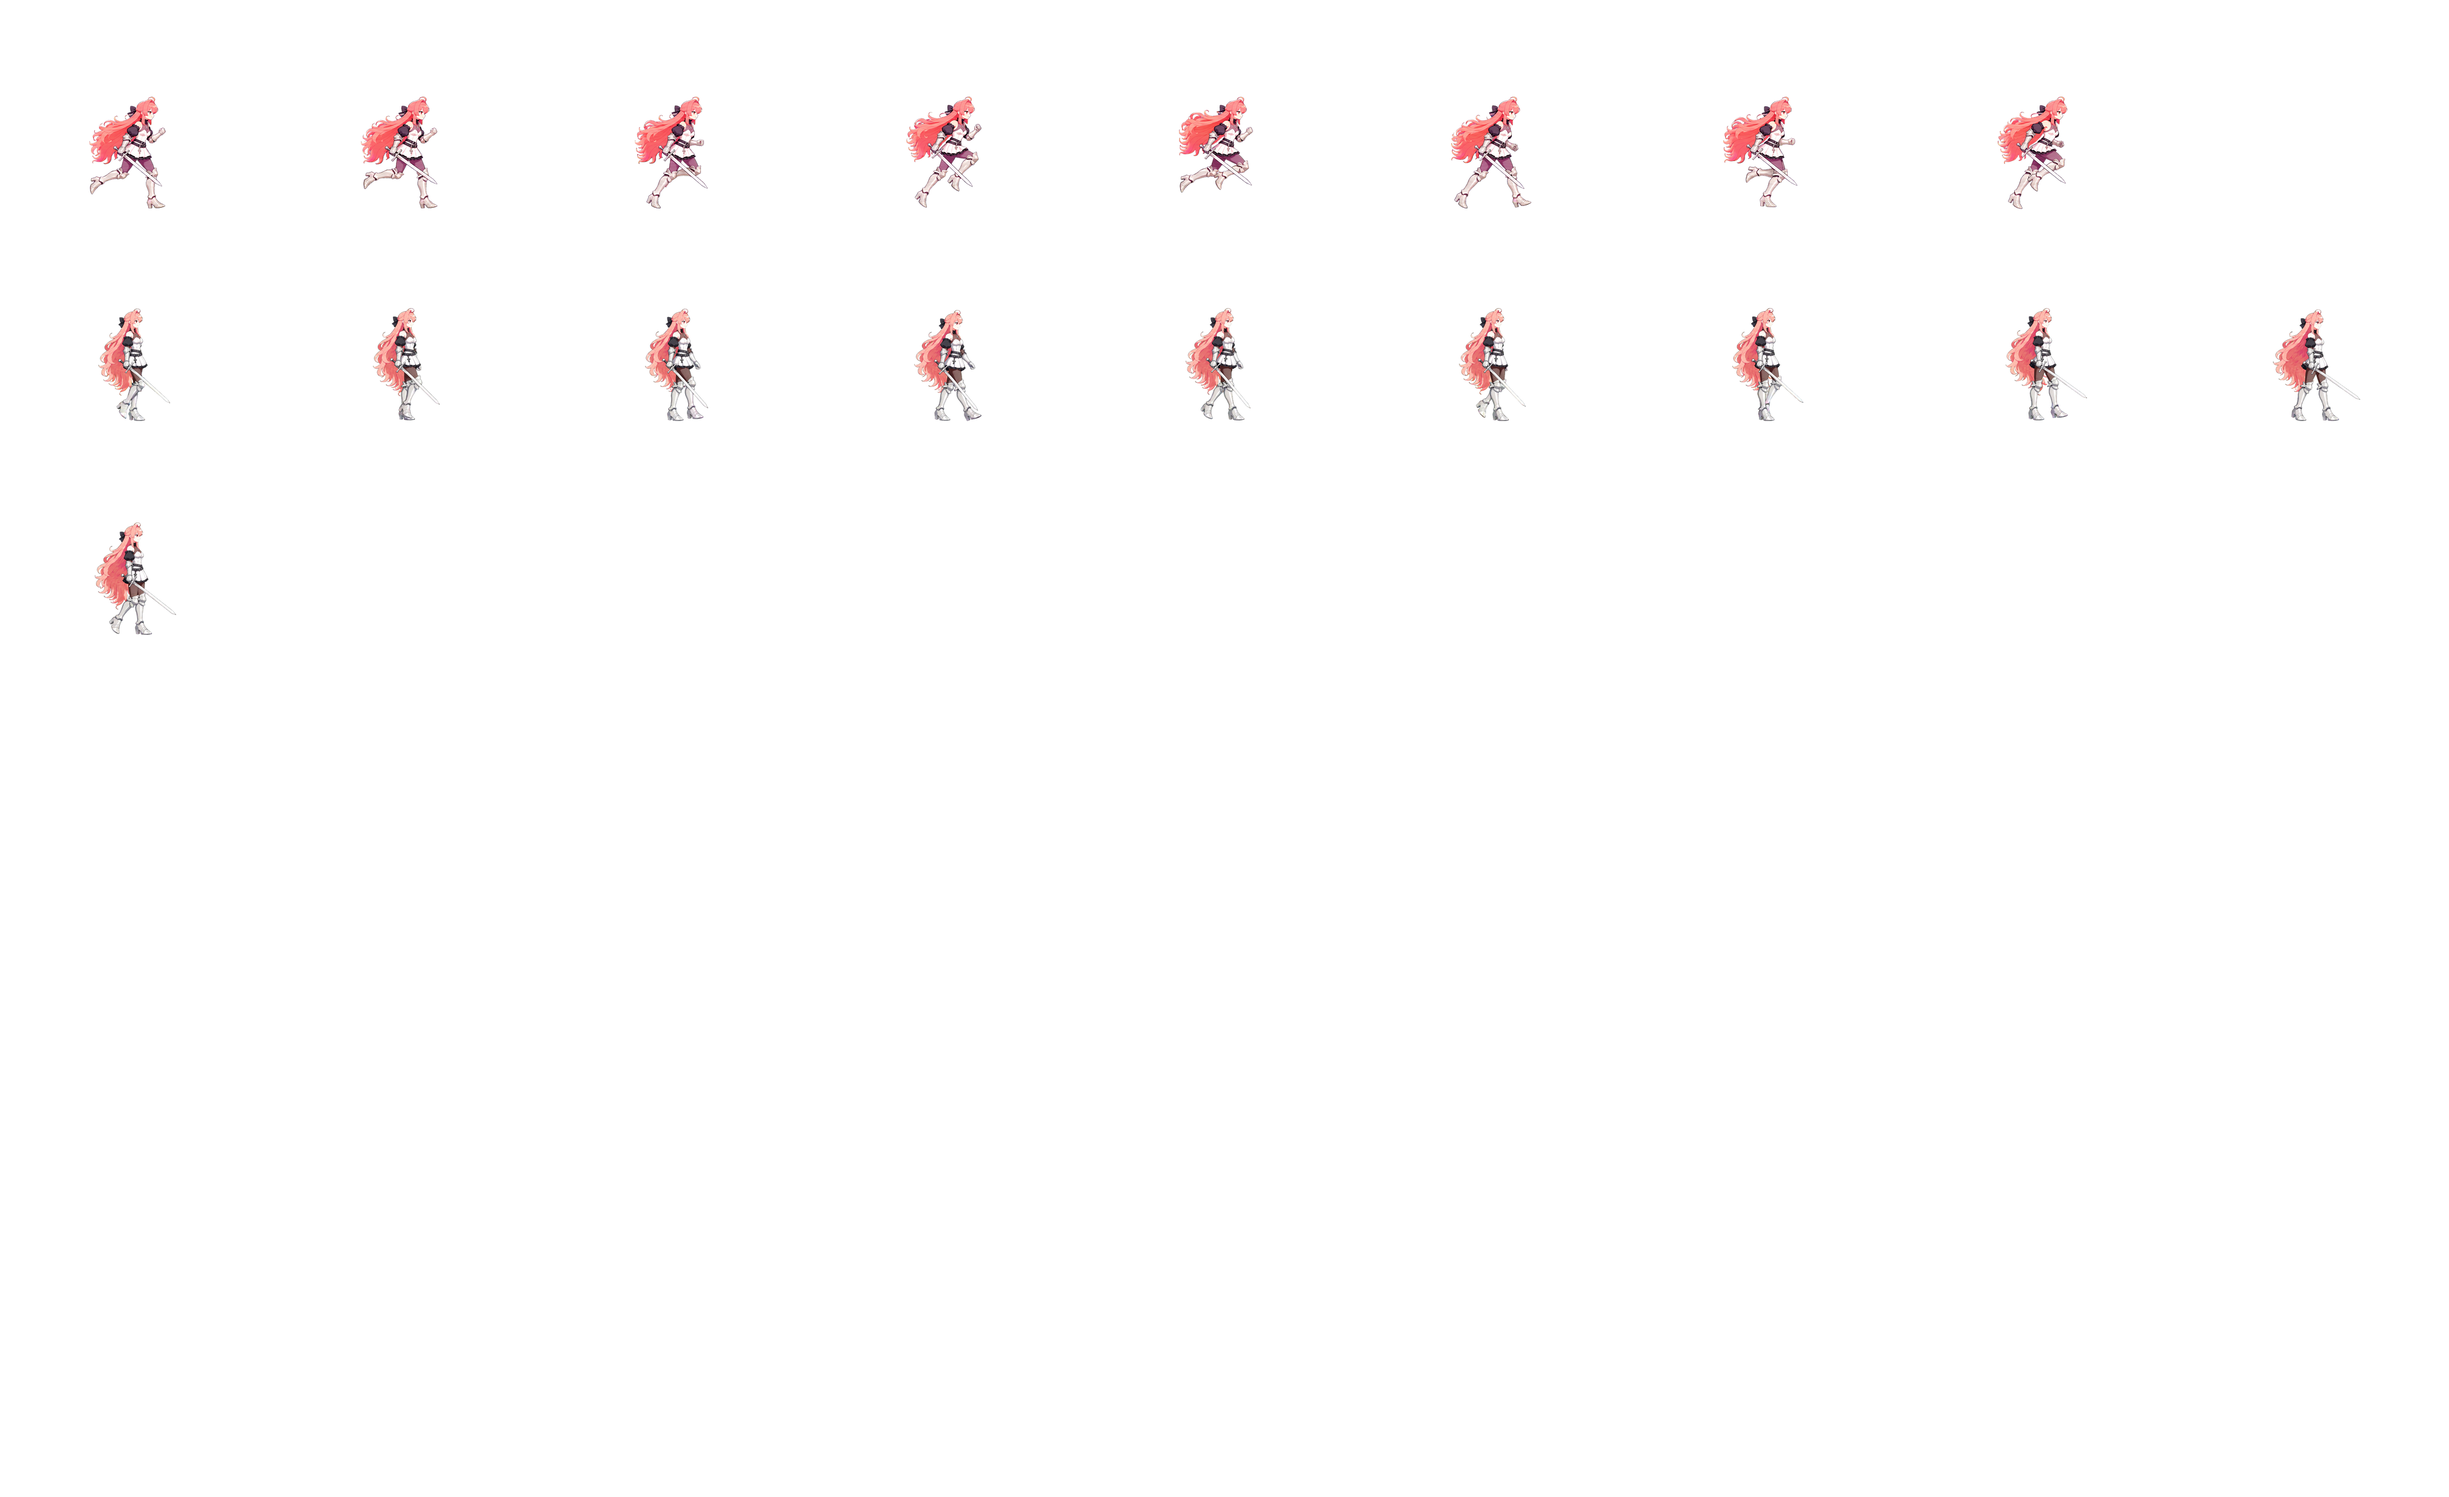
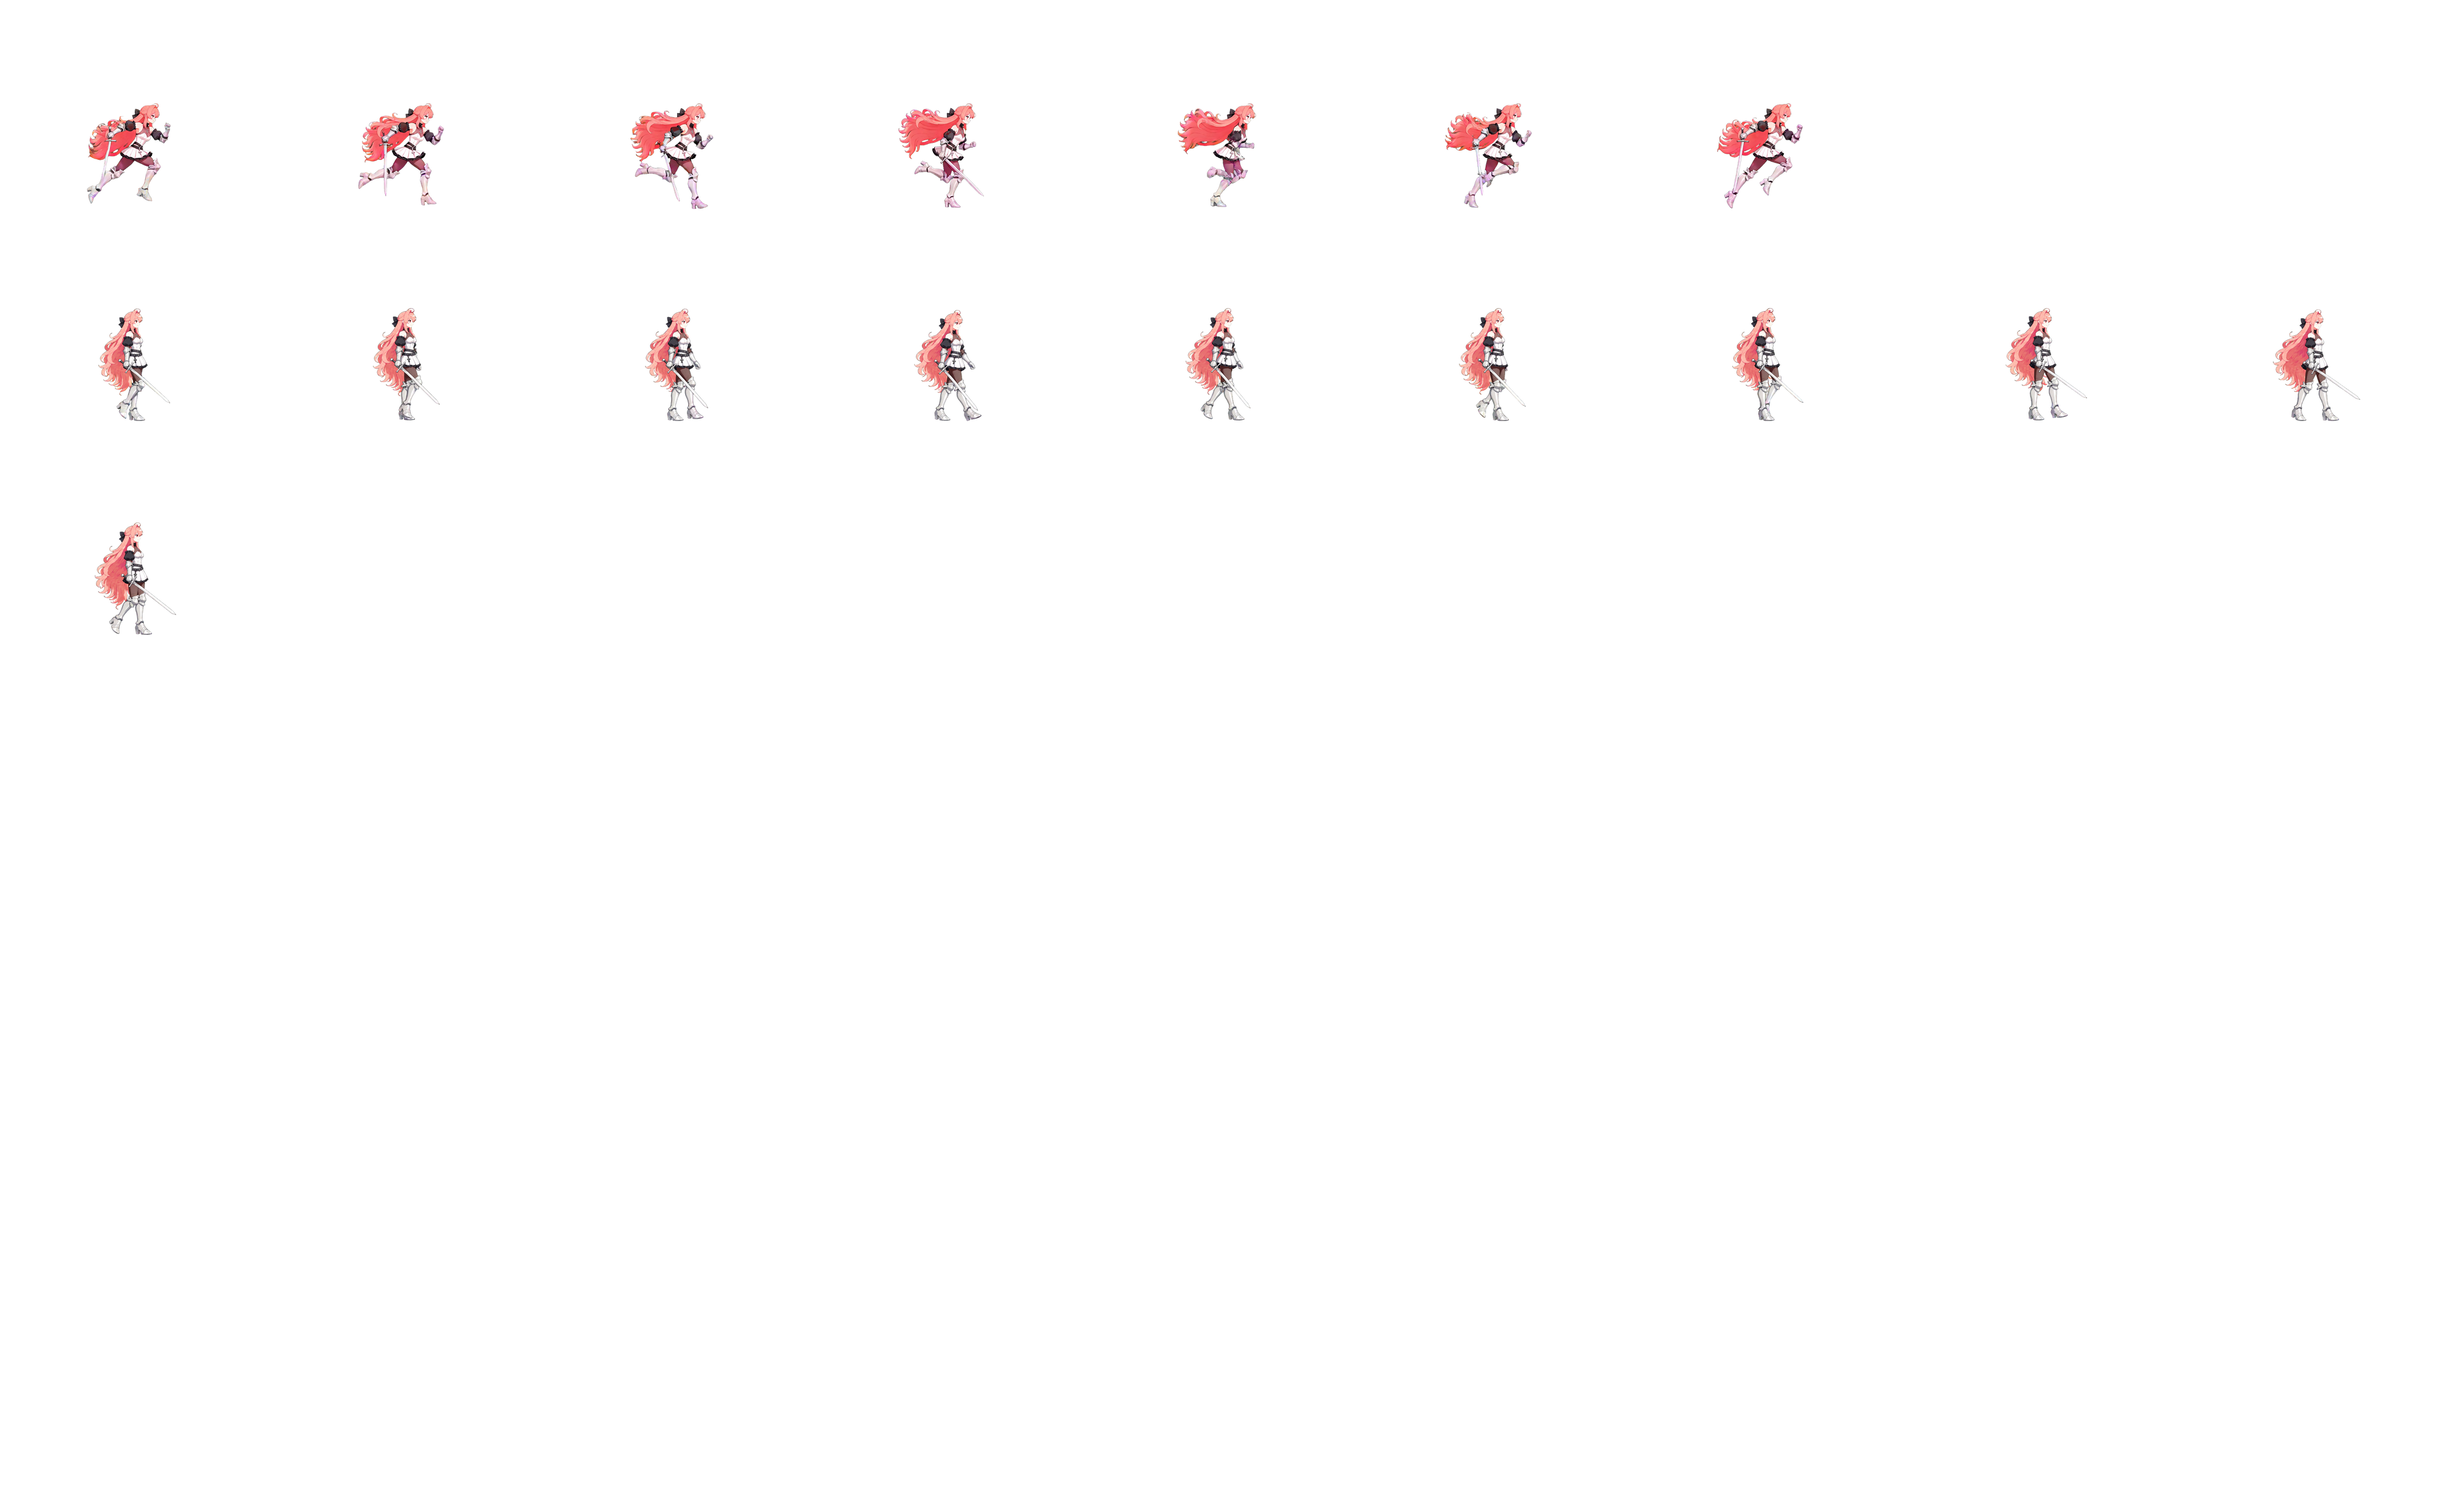
초심: new run (run_7f, fringes cleaned, 7 frames, 620 ms, contacts 1 / 4); a run jump lands straight into the run
Claude-Session: https://claude.ai/code/session_01VqwGMT6BLxBYQ9bji8g8nf

diff --git a/tools/fix_run7.py b/tools/fix_run7.py
@@ -1,0 +1,38 @@
+## 초심 run_7f (fourth delivery): the generator's rainbow fringes in the hair and on the armour. Off-hue pixels among the
+## hair take the local pink's hue (keeping their value); off-hue pixels by the armour go neutral grey. Run in a folder with
+## src.png (the delivered sheet); writes fixed.png, then pack the 7 frames into a strip (run_7f.png, bottoms aligned).
+import numpy as np, colorsys, sys
+from PIL import Image
+from scipy import ndimage
+im = np.asarray(Image.open('src.png').convert('RGBA')).astype(np.float32) / 255
+rgb, a = im[..., :3], im[..., 3]
+mx, mn = rgb.max(-1), rgb.min(-1)
+v = mx; s = np.where(mx > 0, (mx - mn) / np.maximum(mx, 1e-6), 0)
+r, g, b = rgb[..., 0], rgb[..., 1], rgb[..., 2]
+d = np.maximum(mx - mn, 1e-6)
+h = np.where(mx == r, ((g - b) / d) % 6, np.where(mx == g, (b - r) / d + 2, (r - g) / d + 4)) * 60
+vis = a > 0.08
+pink = vis & (s > 0.35) & ((h >= 330) | (h <= 25)) & (v > 0.45)
+off = vis & (s > 0.15) & (h > 28) & (h < 255) & (v > 0.15)
+frac = ndimage.uniform_filter(pink.astype(np.float32), 25)
+met = vis & (s < 0.16) & (v > 0.5)
+mfrac = ndimage.uniform_filter(met.astype(np.float32), 25)
+frac2 = ndimage.uniform_filter(pink.astype(np.float32), 61)
+bright = ndimage.uniform_filter((vis & (s < 0.12) & (v > 0.78)).astype(np.float32), 9)
+hair = (vis & ~pink & (frac2 > 0.3) & (((v < 0.62) & (v > 0.34)) | (a < 0.7)) & (s < 0.45) & (bright < 0.12) & ((h > 25) & (h < 330) | (s < 0.15))) | (off & (frac >= mfrac)) | (vis & ~pink & (frac > 0.4) & (mfrac < 0.08) & (s < 0.35) & (v > 0.2))
+metal = off & ~hair
+# hair: the local pink's hue/sat at this pixel's value
+ph = np.where(pink, h, 0); ph = np.where(ph > 180, ph - 360, ph)
+w = ndimage.uniform_filter(pink.astype(np.float32), 31) + 1e-6
+hue_l = ndimage.uniform_filter(ph * pink, 31) / w
+sat_l = ndimage.uniform_filter(s * pink, 31) / w
+out = rgb.copy()
+ys, xs = np.where(hair)
+for y, x in zip(ys, xs):
+    hh = (hue_l[y, x] % 360) / 360
+    out[y, x] = colorsys.hsv_to_rgb(hh, min(0.9, sat_l[y, x]), v[y, x])
+lum = (0.3 * r + 0.59 * g + 0.11 * b)
+out[metal] = np.stack([lum, lum, lum * 1.04], -1)[metal]
+print('hair px', hair.sum(), 'metal px', metal.sum())
+res = np.dstack([np.clip(out, 0, 1), a])
+Image.fromarray((res * 255).astype(np.uint8)).save('fixed.png')

diff --git a/tools/make_skin_chosim.py b/tools/make_skin_chosim.py
@@ -96,7 +96,8 @@ GROUND1 = {}                            # v1 rows off the ground: none left (jum
 #   y      'ground' / 'air'               ground  for 'air': the frames standing on the floor
 #   x      'hip' / 'plant' / 'body'       plant   for 'plant': the frames that keep frame 0's back foot
 #   pick   source frame per game frame (default: all, in order)
-RUN_PICK = [7, 0, 1, 2, 3, 4, 5, 6]     # run_8f (sword version): heel contacts are its frames 0 and 4 (by eye) → game frames 1 and 5
+RUN_PICK = [2, 3, 4, 5, 6, 0, 1]        # run_7f (fourth delivery, sword at the side, hair / armour fringes cleaned by tools/fix_run7.py):
+                                        # its contacts are frames 3 and 6 (by eye) → game frames 1 and 4 (3 + 4 frames a step)
 SPEC2 = {
     'attack1': dict(file='attack1_5f.png', n=5, row=8, smear=True, x='plant', plant=[1, 2, 3]),
     'attack2': dict(file='attack2_rising_5f.png', n=5, row=9, smear=True, x='plant', plant=[1, 2, 3]),
@@ -129,7 +130,7 @@ if not V1_LOCO:
         'turn': dict(file='turn_4f.png', n=4, row=5),
         # 8 frames for two steps (contact, down, passing, flight each); rotated so the contacts are game frames 1 and 5
         # like 기본's run (skins.steps' default) and the bob's dip (skin_data.gd) lands on them
-        'run': dict(file='run_8f.png', n=8, row=35, src=3, pick=RUN_PICK),
+        'run': dict(file='run_7f.png', n=7, row=35, src=3, key=None, pick=RUN_PICK),
     })
 # rows with no art of their own: [anim, game frame] cells of the rows above
 COMPOSE = {
